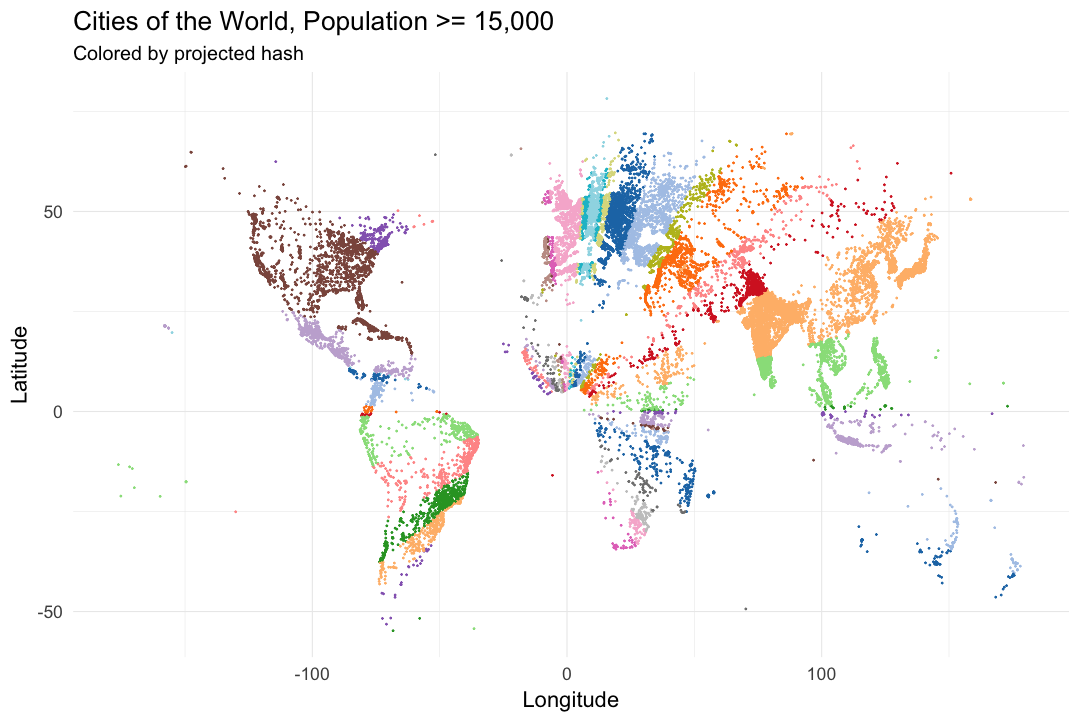
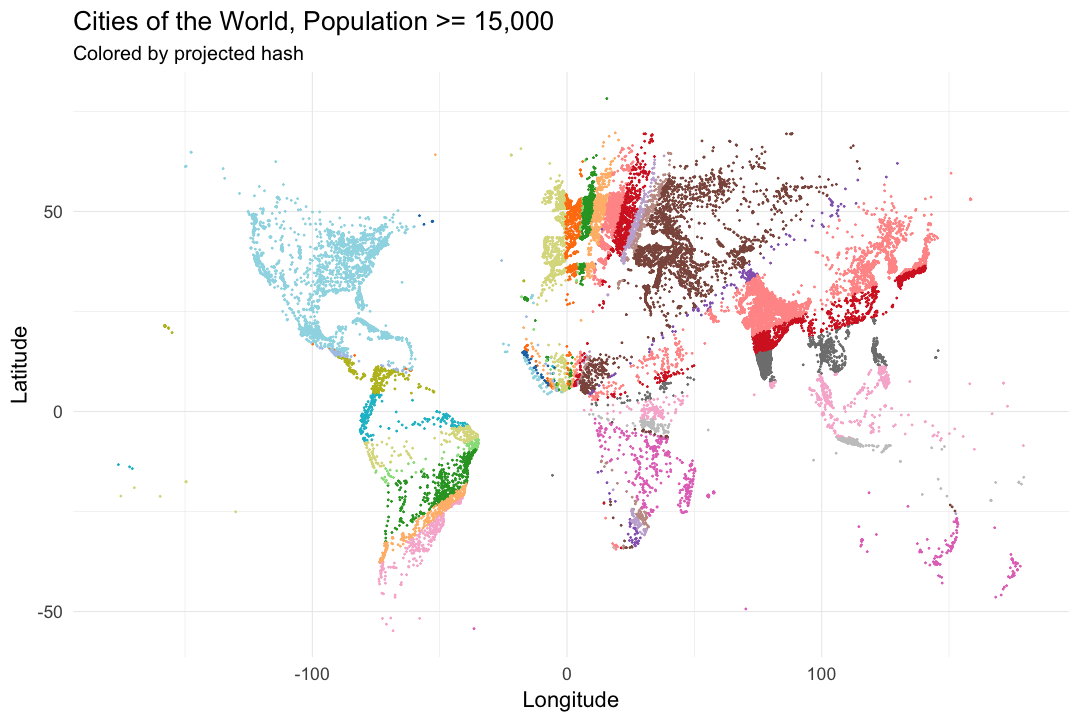
Site updated at 2017-12-17 17:00:40 UTC

diff --git a/index.html b/index.html
@@ -9,7 +9,7 @@
   <meta name="author" content="Jason Punyon">
 
   
-  <meta name="description" content="Last time, we learned about a method of dimensionality reduction called random projection. We showed that using random projection, the number of &hellip;">
+  <meta name="description" content="Last time we learned about a method of dimensionality reduction called random projection. We showed that using random projection, the number of &hellip;">
   
 
   <!-- http://t.co/dKP3o1e -->
@@ -97,7 +97,7 @@
   </header>
 
 
-  <div class="entry-content"><p>Last time, we learned about a method of dimensionality reduction called random projection. We showed that using random projection, the number of dimensions required to preserve the distance between the points in a set is dependent only upon the number of <em>points</em> in the set and the maximum acceptable distortion set by the user. Surprisingly it does <em>not</em> depend on the original number of dimensions. The proof that random projections work is hard to understand, but the method is very simple to implement in just a few steps. To reduce the dimensionality of a set of m points in an N dimensional space:</p>
+  <div class="entry-content"><p><a href="http://jasonpunyon.com/blog/2017/12/02/fun-with-random-numbers-random-projection/">Last time</a> we learned about a method of dimensionality reduction called random projection. We showed that using random projection, the number of dimensions required to preserve the distance between the points in a set is dependent only upon the number of <em>points</em> in the set and the maximum acceptable distortion set by the user. Surprisingly it does <em>not</em> depend on the original number of dimensions. The proof that random projections work is hard to understand, but the method is very simple to implement in just a few steps. To reduce the dimensionality of a set of m points in an N dimensional space:</p>
 
 <ol>
   <li>Get your data into a m × N matrix <strong>D</strong></li>
@@ -148,20 +148,20 @@ projected <span class="o">=</span> D <span class="o">%*%</span> R</code></pre></
 
 <div class="highlight"><pre><code class="language-r" data-lang="r">projected<span class="p">[</span><span class="m">1</span><span class="p">,]</span></code></pre></div>
 
-<div class="highlight"><pre><code class="language-text" data-lang="text">##  [1]  10.69272814   5.85547523  -2.69259970  11.69982579  -8.09947221
-##  [6]   9.73387187  -6.21878316   8.23639838  -0.04556335  -8.63407293
-## [11]   5.86008396  14.05194007   3.21997116  11.88770012  -3.49988214
-## [16]  -8.06132757 -15.38181868  10.03085341  -3.45489811   8.37602080
-## [21]   1.60290140   4.04197519   1.06388562   9.57580297   1.93319542
-## [26]   3.26073281  -1.43515837  -4.95111631  -1.47457978  -2.04400312
-## [31]  -0.62328955   3.22069399</code></pre></div>
+<div class="highlight"><pre><code class="language-text" data-lang="text">##  [1]  -8.5298772   5.2487328   6.4803452   0.7202221  -4.5681409
+##  [6]  -3.5437398  -1.1376153   2.1322984 -13.9543986   9.5068033
+## [11]  11.9501116   4.1434071  -6.2996788  -2.8503986   3.0405665
+## [16]  -6.8101166   2.4264599  -0.4621604 -13.5103668  -7.4556873
+## [21]  11.0385507   3.5353682  -3.1107269   0.5312211   6.7301643
+## [26]   5.3124139   2.1059562   1.6779630   2.7099141  13.2124557
+## [31]   3.0985446  -2.9377113</code></pre></div>
 
 <p>OK, so each row in the projected matrix has 32 numbers. The next step in the process is to turn each row of 32 numbers into 32 bits using their signs. Positive numbers will map to 1s and negative numbers will map to 0s.</p>
 
 <div class="highlight"><pre><code class="language-r" data-lang="r">projected_bits <span class="o">=</span> <span class="kt">matrix</span><span class="p">(</span><span class="kp">as.numeric</span><span class="p">(</span>projected <span class="o">&gt;=</span> <span class="m">0</span><span class="p">),</span> m<span class="p">,</span> n<span class="p">)</span> <span class="c1">##Compare with zero to get the sign of each number...</span>
 projected_bits<span class="p">[</span><span class="m">1</span><span class="p">,]</span> <span class="c1">##And now we have 1s and 0s</span></code></pre></div>
 
-<div class="highlight"><pre><code class="language-text" data-lang="text">##  [1] 1 1 0 1 0 1 0 1 0 0 1 1 1 1 0 0 0 1 0 1 1 1 1 1 1 1 0 0 0 0 0 1</code></pre></div>
+<div class="highlight"><pre><code class="language-text" data-lang="text">##  [1] 0 1 1 1 0 0 0 1 0 1 1 1 0 0 1 0 1 0 0 0 1 1 0 1 1 1 1 1 1 1 1 0</code></pre></div>
 
 <p>Our projected data is now a collection of 32-bit strings, which I’m going to call hashes. Let’s visualize the data by coloring the points on the original map by their projected hashes.</p>
 

diff --git a/blog/2017/12/08/fun-with-random-numbers-more-random-projection/index.html b/blog/2017/12/08/fun-with-random-numbers-more-random-projection/index.html
@@ -9,7 +9,7 @@
   <meta name="author" content="Jason Punyon">
 
   
-  <meta name="description" content="Last time, we learned about a method of dimensionality reduction called random projection. We showed that using random projection, the number of &hellip;">
+  <meta name="description" content="Last time we learned about a method of dimensionality reduction called random projection. We showed that using random projection, the number of &hellip;">
   
 
   <!-- http://t.co/dKP3o1e -->
@@ -94,7 +94,7 @@
   </header>
 
 
-<div class="entry-content"><p>Last time, we learned about a method of dimensionality reduction called random projection. We showed that using random projection, the number of dimensions required to preserve the distance between the points in a set is dependent only upon the number of <em>points</em> in the set and the maximum acceptable distortion set by the user. Surprisingly it does <em>not</em> depend on the original number of dimensions. The proof that random projections work is hard to understand, but the method is very simple to implement in just a few steps. To reduce the dimensionality of a set of m points in an N dimensional space:</p>
+<div class="entry-content"><p><a href="http://jasonpunyon.com/blog/2017/12/02/fun-with-random-numbers-random-projection/">Last time</a> we learned about a method of dimensionality reduction called random projection. We showed that using random projection, the number of dimensions required to preserve the distance between the points in a set is dependent only upon the number of <em>points</em> in the set and the maximum acceptable distortion set by the user. Surprisingly it does <em>not</em> depend on the original number of dimensions. The proof that random projections work is hard to understand, but the method is very simple to implement in just a few steps. To reduce the dimensionality of a set of m points in an N dimensional space:</p>
 
 <ol>
   <li>Get your data into a m × N matrix <strong>D</strong></li>
@@ -145,20 +145,20 @@ projected <span class="o">=</span> D <span class="o">%*%</span> R</code></pre></
 
 <div class="highlight"><pre><code class="language-r" data-lang="r">projected<span class="p">[</span><span class="m">1</span><span class="p">,]</span></code></pre></div>
 
-<div class="highlight"><pre><code class="language-text" data-lang="text">##  [1]  10.69272814   5.85547523  -2.69259970  11.69982579  -8.09947221
-##  [6]   9.73387187  -6.21878316   8.23639838  -0.04556335  -8.63407293
-## [11]   5.86008396  14.05194007   3.21997116  11.88770012  -3.49988214
-## [16]  -8.06132757 -15.38181868  10.03085341  -3.45489811   8.37602080
-## [21]   1.60290140   4.04197519   1.06388562   9.57580297   1.93319542
-## [26]   3.26073281  -1.43515837  -4.95111631  -1.47457978  -2.04400312
-## [31]  -0.62328955   3.22069399</code></pre></div>
+<div class="highlight"><pre><code class="language-text" data-lang="text">##  [1]  -8.5298772   5.2487328   6.4803452   0.7202221  -4.5681409
+##  [6]  -3.5437398  -1.1376153   2.1322984 -13.9543986   9.5068033
+## [11]  11.9501116   4.1434071  -6.2996788  -2.8503986   3.0405665
+## [16]  -6.8101166   2.4264599  -0.4621604 -13.5103668  -7.4556873
+## [21]  11.0385507   3.5353682  -3.1107269   0.5312211   6.7301643
+## [26]   5.3124139   2.1059562   1.6779630   2.7099141  13.2124557
+## [31]   3.0985446  -2.9377113</code></pre></div>
 
 <p>OK, so each row in the projected matrix has 32 numbers. The next step in the process is to turn each row of 32 numbers into 32 bits using their signs. Positive numbers will map to 1s and negative numbers will map to 0s.</p>
 
 <div class="highlight"><pre><code class="language-r" data-lang="r">projected_bits <span class="o">=</span> <span class="kt">matrix</span><span class="p">(</span><span class="kp">as.numeric</span><span class="p">(</span>projected <span class="o">&gt;=</span> <span class="m">0</span><span class="p">),</span> m<span class="p">,</span> n<span class="p">)</span> <span class="c1">##Compare with zero to get the sign of each number...</span>
 projected_bits<span class="p">[</span><span class="m">1</span><span class="p">,]</span> <span class="c1">##And now we have 1s and 0s</span></code></pre></div>
 
-<div class="highlight"><pre><code class="language-text" data-lang="text">##  [1] 1 1 0 1 0 1 0 1 0 0 1 1 1 1 0 0 0 1 0 1 1 1 1 1 1 1 0 0 0 0 0 1</code></pre></div>
+<div class="highlight"><pre><code class="language-text" data-lang="text">##  [1] 0 1 1 1 0 0 0 1 0 1 1 1 0 0 1 0 1 0 0 0 1 1 0 1 1 1 1 1 1 1 1 0</code></pre></div>
 
 <p>Our projected data is now a collection of 32-bit strings, which I’m going to call hashes. Let’s visualize the data by coloring the points on the original map by their projected hashes.</p>
 
